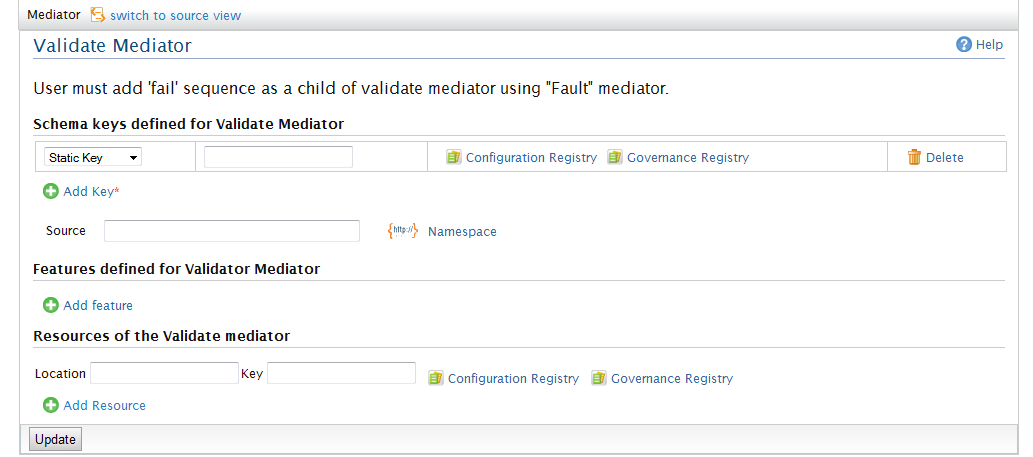
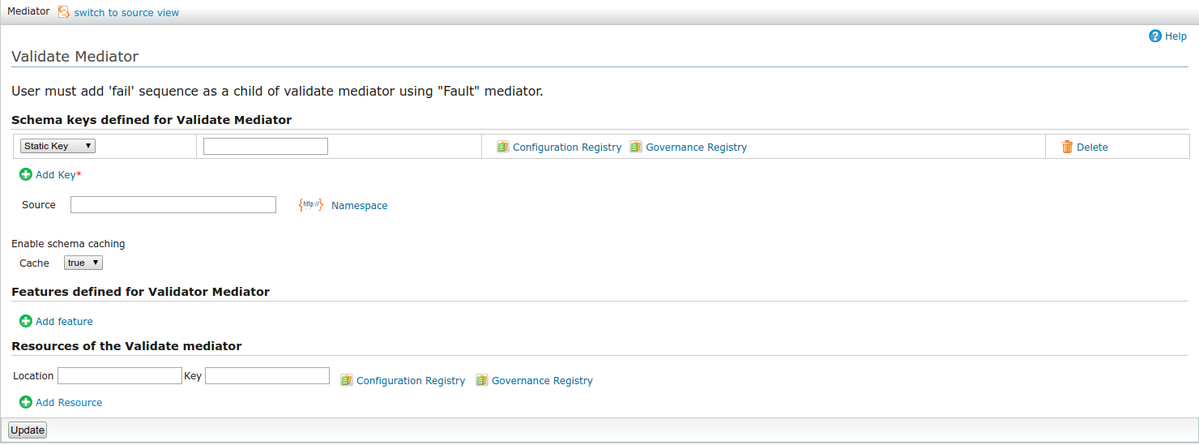
Add schema caching control support for validate mediator When using validate mediator inside a template and when passing the schema as a parameter, validation fails sometimes. Mostly this happen if success and failure messages received same time. Provide a user define cache control with this fix. Re

diff --git a/components/mediation-ui/mediators-ui/org.wso2.carbon.mediator.validate.ui/src/main/resources/web/validate-mediator/docs/userguide.html b/components/mediation-ui/mediators-ui/org.wso2.carbon.mediator.validate.ui/src/main/resources/web/validate-mediator/docs/userguide.html
@@ -29,6 +29,8 @@
 <p>Schema location</p>
 <h3>Source</h3>
 <p>XPath expression to extract the XML that need to be validated. If not specified validation is performed against the first child of the SOAP body</p>
+<h3>Schema Caching</h3>
+<p>Cache the schema to enable better performance. Schema caching will give incorrect result if used inside the template. Schema will cache by default</p>
 <h3>Features</h3>
 <p>Here is the only mandatory feature supported by the validator, "http://javax.xml.XMLConstants/feature/secure-processing". For more information look at
     http://java.sun.com/javase/6/docs/api/constant-values.html#javax.xml.XMLConstants.FEATURE_SECURE_PROCESSING</p>
@@ -36,7 +38,7 @@
 <p>The resources are external schema resources, which can be used to validate the messages </p>
 </body>
 <p> <strong>Note: </strong>If user configure WSO2 ESB with WSO2 Governance Registry and if he uploads all the required files as *.gar file (described in WSO2 GREG documentation),
- uer can  provide only the base schema when he provides schemas.
+ user can  provide only the base schema when he provides schemas.
 There is no need to provide all required imported schemas since ESB is able to resolve the imported resources using only the base schema.
 Please note that for the above function user needs to uncomment the following lines @ synapse.properties file which is avilable in ESB_HOME/lib/core/WEB_INF/classes folder.
 </p>

diff --git a/components/mediation-ui/mediators-ui/org.wso2.carbon.mediator.validate.ui/src/main/java/org/wso2/carbon/mediator/validate/ValidateMediator.java b/components/mediation-ui/mediators-ui/org.wso2.carbon.mediator.validate.ui/src/main/java/org/wso2/carbon/mediator/validate/ValidateMediator.java
@@ -37,10 +37,12 @@ import java.util.Set;
 public class ValidateMediator extends AbstractListMediator {
     private static final QName ON_FAIL_Q  = new QName(XMLConfigConstants.SYNAPSE_NAMESPACE, "on-fail");
     private static final QName SCHEMA_Q   = new QName(XMLConfigConstants.SYNAPSE_NAMESPACE, "schema");
+    private static final QName ATT_CACHE_SCHEMA = new QName("cache-schema");
 
     private List<Value> schemaKeys = new ArrayList<Value>();
     private SynapsePath source = null;
     private final List<MediatorProperty> explicityFeatures = new ArrayList<MediatorProperty>();
+    private boolean cacheSchema = true;
     
 	Map<String, String> resources = new HashMap<String, String>();
 	
@@ -98,6 +100,11 @@ public class ValidateMediator extends AbstractListMediator {
             throw new MediatorException("No 'Fault' mediator found within the on-fail section of the 'Validate' mediator.");
         }
         serializeChildren(onFail, getList());
+
+        if (!isCacheSchema()) {
+            OMAttribute cacheSchemaAtt = fac.createOMAttribute("cache-schema", nullNS, String.valueOf(isCacheSchema()));
+            validate.addAttribute(cacheSchemaAtt);
+        }
 
         if (parent != null) {
             parent.addChild(validate);
@@ -160,6 +167,12 @@ public class ValidateMediator extends AbstractListMediator {
             } catch (JaxenException e) {
                 throw new MediatorException("Invalid XPath expression specified for attribute 'source'");
             }
+        }
+
+        // process schema cacheability.
+        OMAttribute attSchemaCache = elem.getAttribute(ATT_CACHE_SCHEMA);
+        if (attSchemaCache != null) {
+            this.setCacheSchema(Boolean.parseBoolean(attSchemaCache.getAttributeValue()));
         }
 
         // process on-fail
@@ -240,5 +253,13 @@ public class ValidateMediator extends AbstractListMediator {
 
 	public Map<String,String> getResources() {
 	    return resources;
-    } 
+    }
+
+    public boolean isCacheSchema() {
+        return cacheSchema;
+    }
+
+    public void setCacheSchema(boolean cacheSchema) {
+        this.cacheSchema = cacheSchema;
+    }
 }
